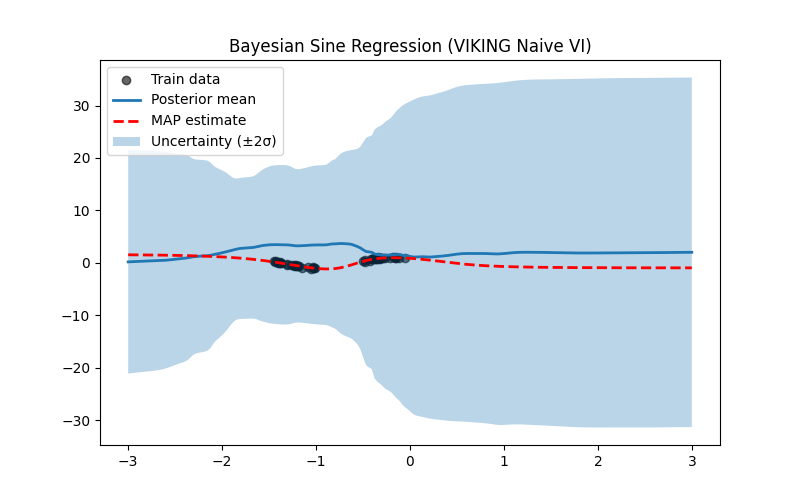
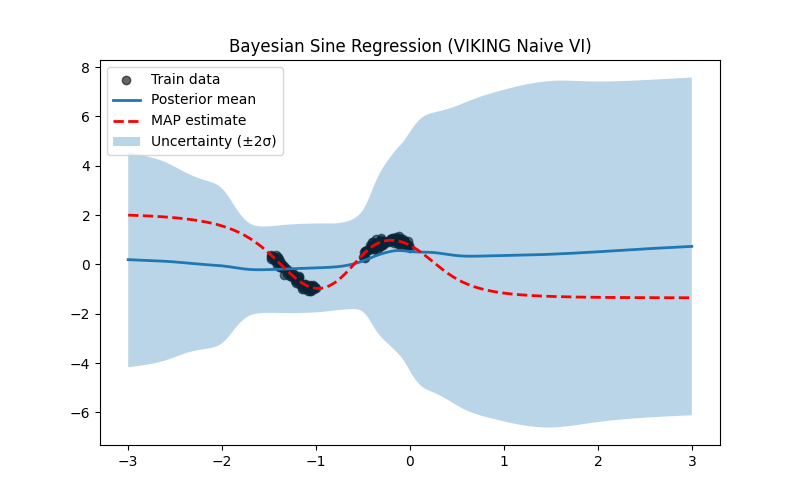
new results with saved ELBO checkpoint

diff --git a/experiments/VIKING_sine_curve.py b/experiments/VIKING_sine_curve.py
@@ -13,7 +13,7 @@ from src.data.sinedata import generate_data
 from src.losses import sse_loss
 from src.plotting.naive_sine_plots import plot_bayesian_samples_with_mean, plot_mean_bayesian_with_MAP
 
-N = 50
+N = 150
 SEED = 42
 NOISE_VAR = 0.01
 
@@ -172,7 +172,7 @@ def main():
         return loss, params_opt, opt_state
     
     jit_train_step = jax.jit(train_step)
-    num_epochs = 1500  # or however many you want
+    num_epochs = 1000  # or however many you want
     log_every = 25
 
     params_opt_current = params_opt
@@ -231,6 +231,16 @@ def main():
         y_mean=y_mean,
         y_preds=y_preds
     )
+
+    elbo_params_dict = {}
+    elbo_params_dict["sigma_ker"] = params_opt_current["sigma_ker"]
+    elbo_params_dict["sigma_im"] = params_opt_current["sigma_im"]
+    elbo_params_dict["theta"] = params_opt_current["theta"]
+
+    with open(f"./checkpoints/sine_VIKING.pickle", "wb") as file:
+        pickle.dump(
+            {"elbo_params": elbo_params_dict}, file
+        )
 
 if __name__ == "__main__":
     main()

diff --git a/experiments/train_sine_model.py b/experiments/train_sine_model.py
@@ -14,7 +14,7 @@ from src.data.sinedata import generate_data, f
 from src.utils import compute_num_params
 from src.losses import sse_loss
 
-N = 50
+N = 150
 BATCH_SIZE = 10
 NOISE_VAR = 0.01
 SEED = 42
